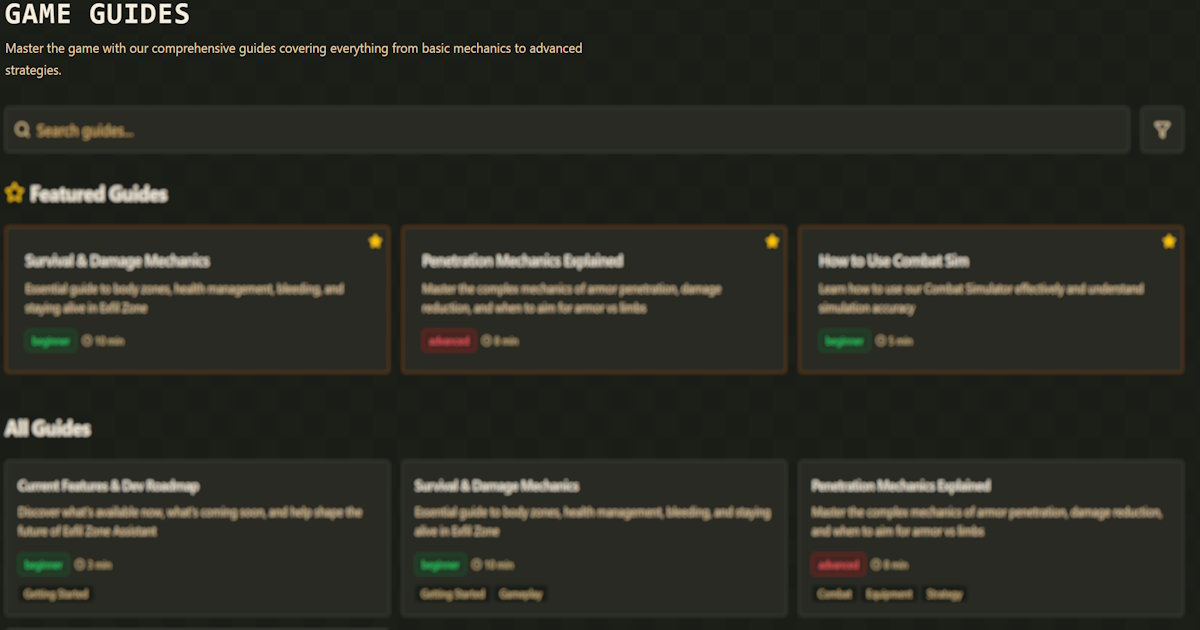
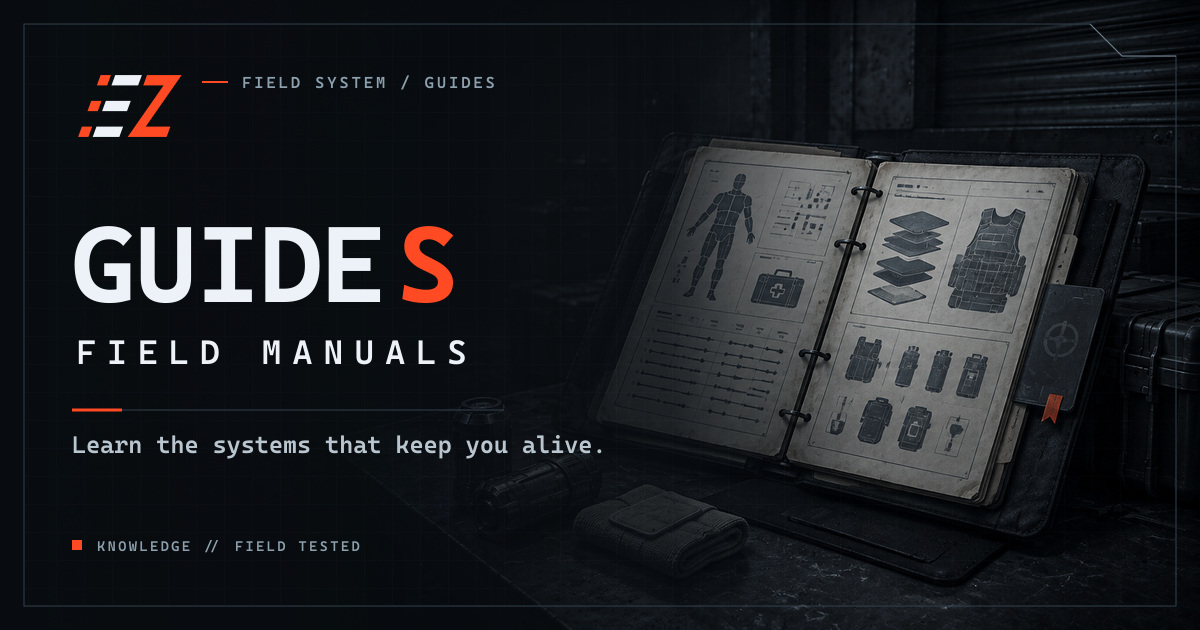
OG guides

diff --git a/src/app/guides/page.tsx b/src/app/guides/page.tsx
@@ -16,7 +16,7 @@ export const metadata: Metadata = {
                 url: '/og/og-image-guides.jpg',
                 width: 1200,
                 height: 630,
-                alt: 'ExfilZone Guides and Tutorials',
+                alt: 'Guides for survival, combat, equipment, and game mechanics',
             }
         ],
     },
